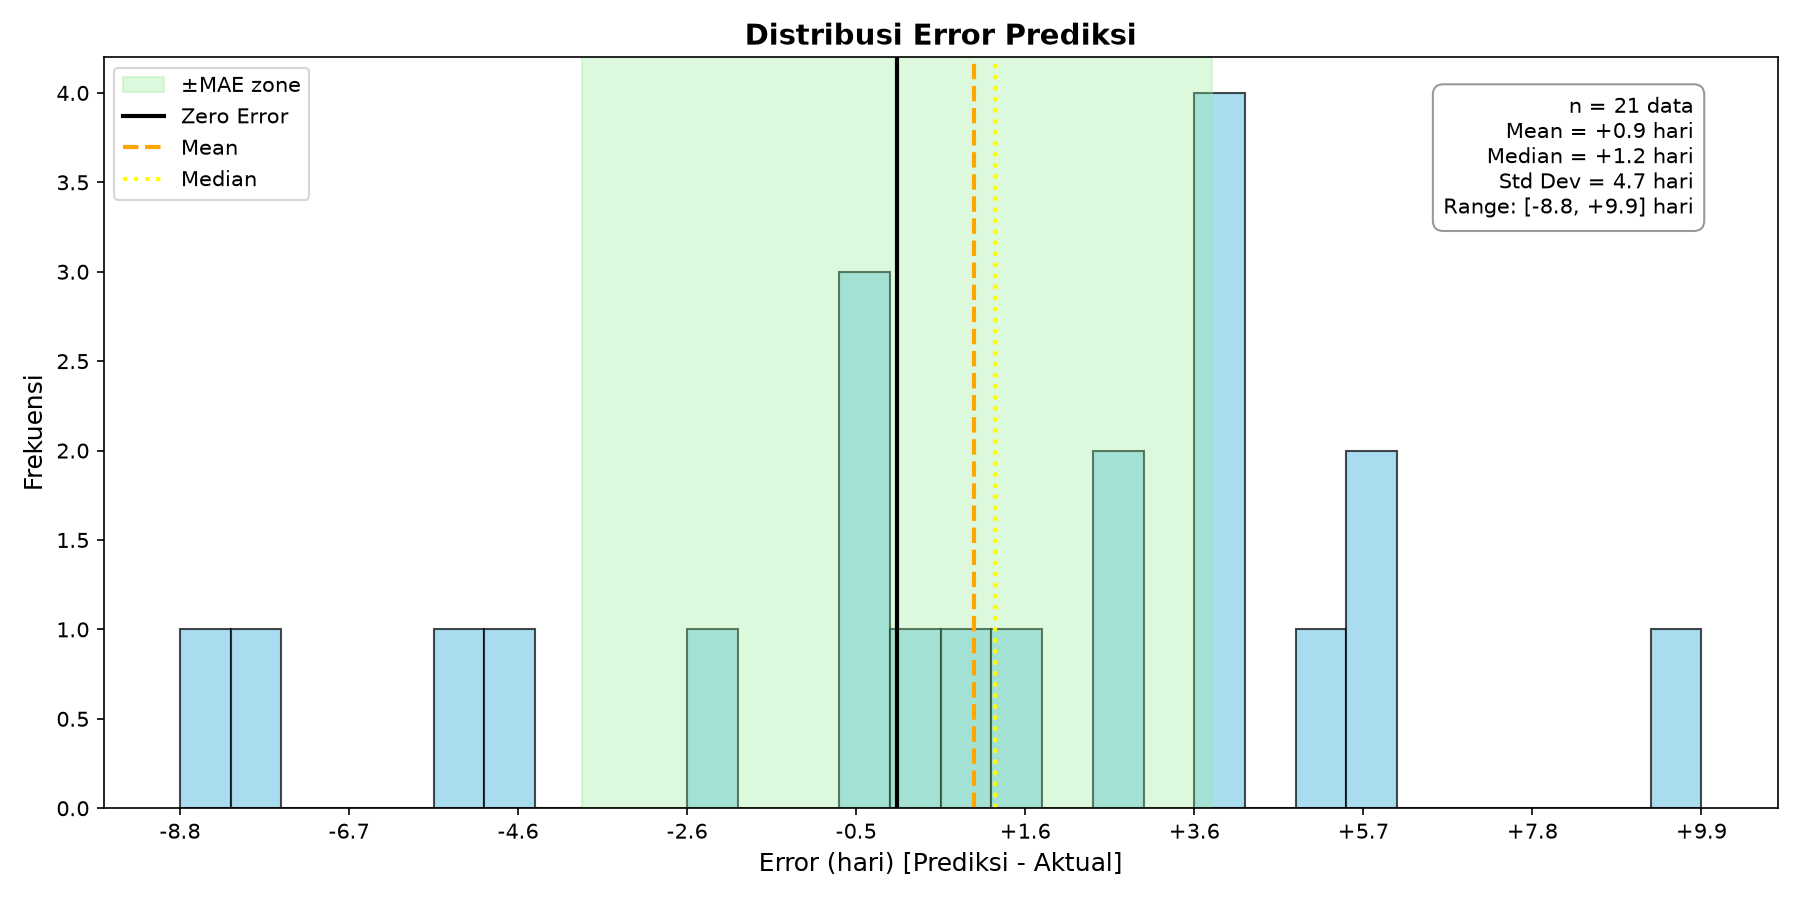
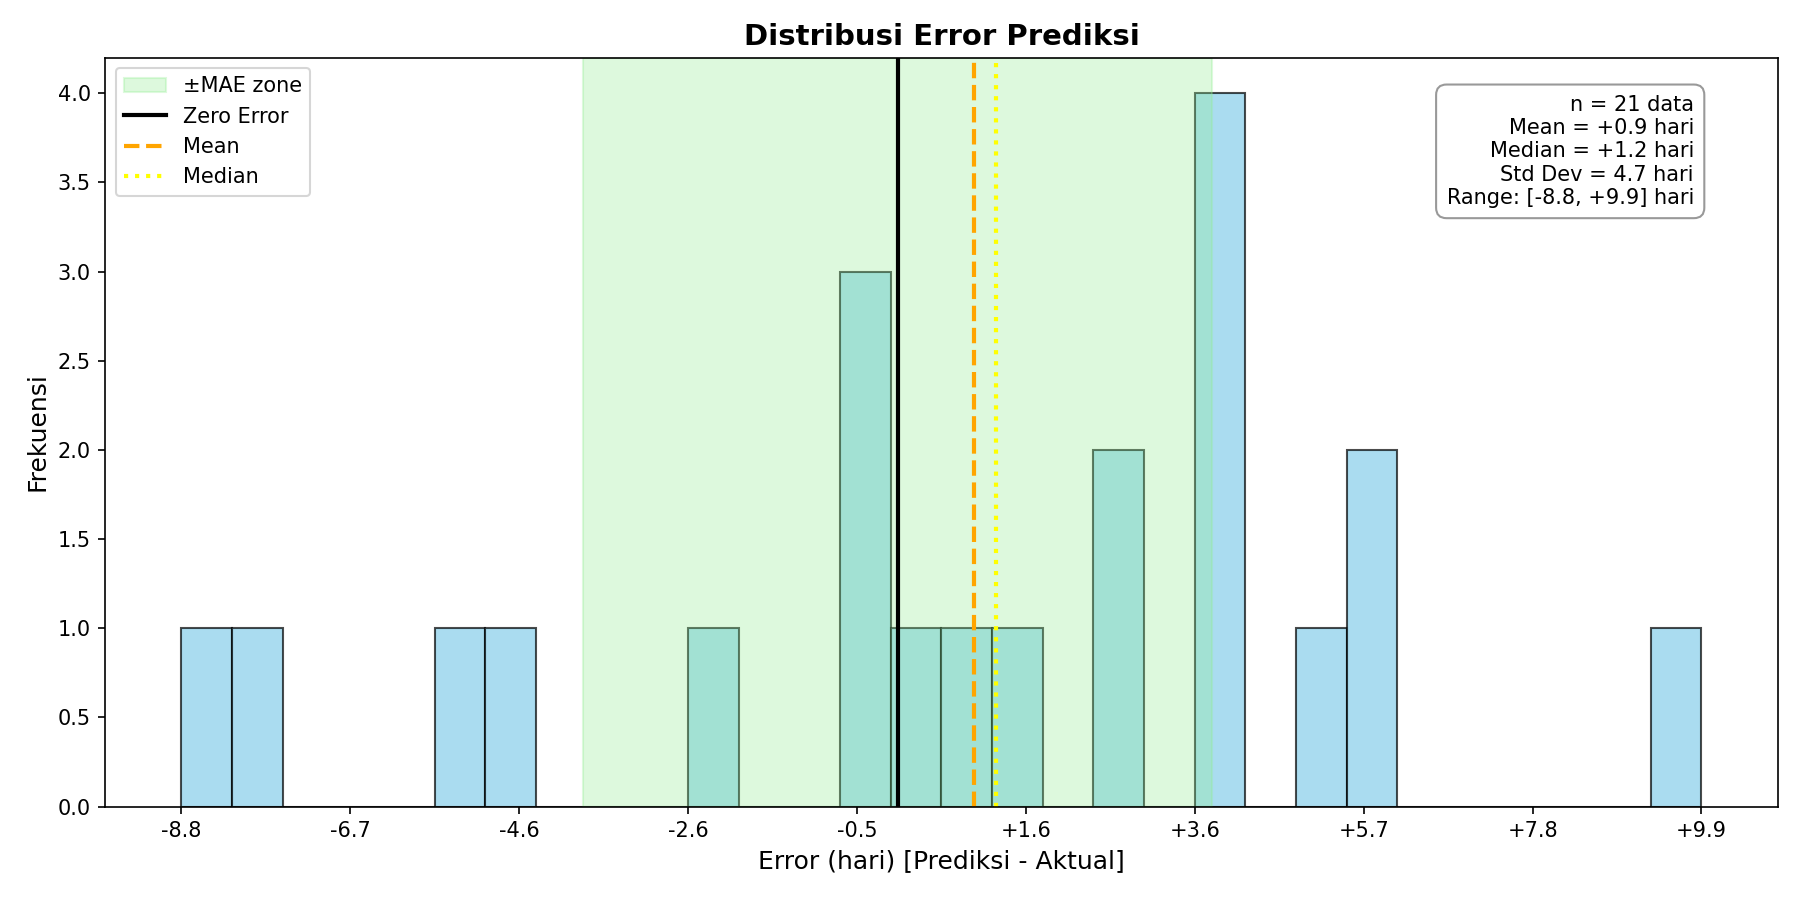
chore: added visualization each fold

diff --git a/experiments/k_fold_cv.py b/experiments/k_fold_cv.py
@@ -1,4 +1,5 @@
 import numpy as np
+import matplotlib.pyplot as plt
 
 class KFoldCrossValidation:
     def __init__(
@@ -139,6 +140,9 @@ class KFoldCrossValidation:
                     "train_samples": len(train_idx),
                     "validation_samples": len(val_idx),
                     "best_epoch": best_epoch,
+                    "history": history,
+                    "y_val": y_val,
+                    "y_pred": y_pred,
                     **metrics,
                 }
 
@@ -374,6 +378,25 @@ if __name__ == "__main__":
         model_params=model_params,
         trainer_params=trainer_params
     )
+
+    output_dir = f"results/kfold_{args.capacity}VA"
+    os.makedirs(output_dir, exist_ok=True)
+
+    for result in kfold.fold_results:
+        plt.figure(figsize=(8, 5))
+        plt.plot(result['history']['train_loss'], label='Train Loss')
+        plt.plot(result['history']['val_loss'], label='Validation Loss')
+        plt.axvline(result['best_epoch'], color='r', linestyle='--', alpha=0.5, label=f"Best Epoch ({result['best_epoch']})")
+        plt.title(f"Fold {result['fold']} - Loss Curve")
+        plt.xlabel('Epoch')
+        plt.ylabel('Loss')
+        plt.legend()
+        plt.grid(True, alpha=0.3)
+        plt.tight_layout()
+        plt.savefig(f"{output_dir}/fold_{result['fold']}.png", dpi=150)
+        plt.close()
+
+    print(f"\nVisualizations saved in: {output_dir}/")
 
     # Print summary
     print(f"\n{'='*60}")
